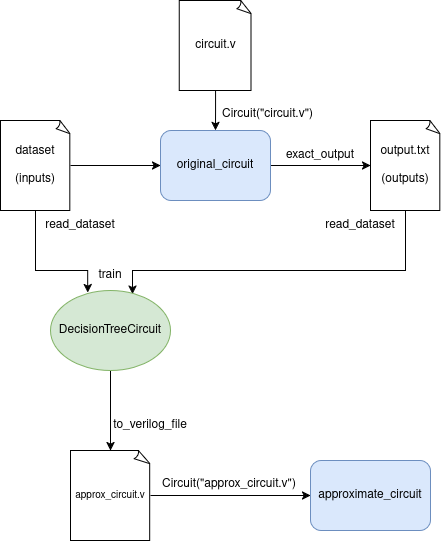
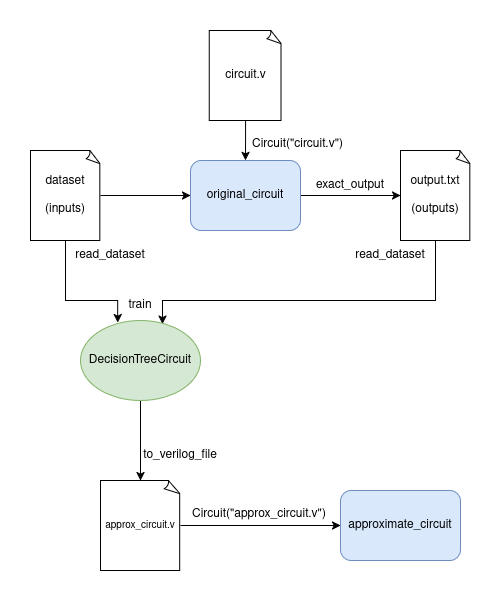
Center diagram and give it a border

diff --git a/README.md b/README.md
@@ -489,7 +489,10 @@ Note that this method requires installing the `scikit-learn` package, since it
 leverages its DT implementation.
 
 The following diagram gives a simplified view of how the method operates:
-<img src="images/decision_tree_method.png" alt="A diagram giving a rough overview of the steps explained below." width="500" />
+
+<p align="center">
+    <img src="images/decision_tree_method.png" alt="A diagram giving a rough overview of the steps explained below."/>
+</p>
 
 1. Import the `DecisionTreeCircuit` class, which wraps logic to train and
    convert scikit-learn DTs into Boolean circuits.
